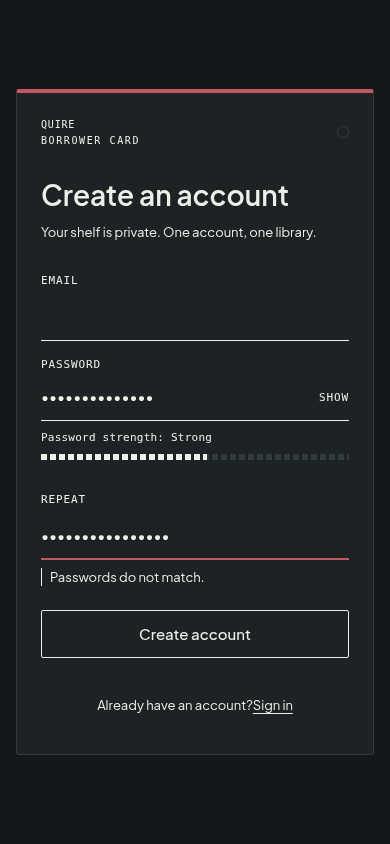
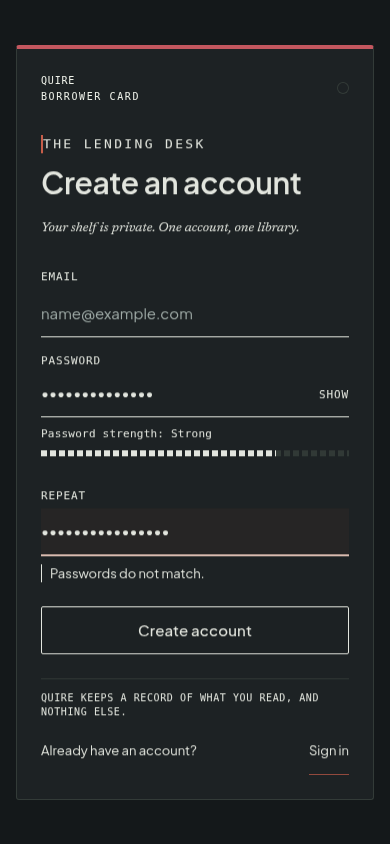
feat(auth): modern editorial pass on the card (#43)
* feat(auth): give the card a modern editorial voice

* fix(auth): keep the accent in the rule so every theme clears 7:1

diff --git a/src/styles/auth.css b/src/styles/auth.css
@@ -385,3 +385,148 @@
 .borrower-card .auth-forgot {
   margin-top: var(--space-4);
 }
+
+/* the card arrives, it does not pop */
+@keyframes card-rise {
+  from {
+    opacity: 0;
+    transform: translateY(6px);
+  }
+  to {
+    opacity: 1;
+    transform: translateY(0);
+  }
+}
+
+.borrower-card .auth-face {
+  animation: card-rise 180ms var(--ease);
+}
+
+.borrower-card .auth-kicker {
+  margin: 0 0 var(--space-6);
+  font: 10px / 12px var(--font-mono);
+  letter-spacing: 0.18em;
+  text-transform: uppercase;
+  color: var(--ink);
+  border-left: 2px solid var(--accent);
+  padding-left: var(--space-6);
+}
+
+.borrower-card .auth-head h1 {
+  font-size: 30px;
+  line-height: 34px;
+  letter-spacing: -0.01em;
+  margin: 0 0 var(--space-8);
+}
+
+.borrower-card .auth-lede {
+  margin: 0;
+  font-family: var(--font-serif);
+  font-size: 15px;
+  line-height: 22px;
+}
+
+/* the underline is the focus state, so it grows instead of appearing */
+.borrower-card .auth-form input {
+  border-bottom-width: var(--rule-width);
+  transition: border-color var(--motion) var(--ease);
+}
+
+.borrower-card .auth-form input:focus {
+  border-bottom-color: var(--accent);
+  outline: none;
+}
+
+.borrower-card .auth-issued {
+  width: 100%;
+  margin: var(--space-24) 0 0;
+  padding-top: var(--space-12);
+  border-top: var(--rule-width) solid var(--rule);
+  font: 10px / 14px var(--font-mono);
+  letter-spacing: 0.06em;
+  text-transform: uppercase;
+  color: var(--ink);
+  text-align: left;
+}
+
+@media (prefers-reduced-motion: reduce) {
+  .borrower-card .auth-face {
+    animation: none;
+  }
+}
+
+/* the footer is one column: the privacy line sits on the rule, the switch under it */
+.borrower-card .auth-footer {
+  display: flex;
+  flex-direction: column;
+  gap: var(--space-8);
+}
+
+.borrower-card .auth-issued {
+  border-top: var(--rule-width) solid var(--rule);
+  padding-top: var(--space-12);
+  margin: 0;
+}
+
+/* placeholders exist so the field reads as a field, not a printed blank */
+.borrower-card .auth-form input::placeholder {
+  color: var(--ink-muted);
+  opacity: 1;
+}
+
+.borrower-card .auth-form input:focus {
+  background: color-mix(in srgb, var(--accent) 6%, transparent);
+}
+
+/* the accent lives in the rule under the word, not in the word: 7:1 must hold in every theme */
+.borrower-card .auth-forgot,
+.borrower-card .auth-switch-action {
+  text-decoration: none;
+  color: var(--ink);
+  border-bottom: var(--rule-width) solid var(--accent);
+  padding-bottom: 1px;
+}
+
+.borrower-card .auth-forgot:hover,
+.borrower-card .auth-switch-action:hover,
+.borrower-card .auth-forgot:focus-visible,
+.borrower-card .auth-switch-action:focus-visible {
+  text-decoration: underline;
+  text-underline-offset: 3px;
+}
+
+.borrower-card .auth-switch {
+  justify-content: space-between;
+  gap: var(--space-8);
+  width: 100%;
+}
+
+.borrower-card .auth-switch-ask {
+  color: var(--ink);
+}
+
+/* the button keeps its weight but stops shouting */
+.borrower-card .auth-form .primary {
+  font-size: 15px;
+  letter-spacing: 0.01em;
+}
+
+/* micro spacing: the writer needs air above the rule, the link needs air above it */
+.borrower-card .auth-form input {
+  padding-bottom: var(--space-10);
+}
+
+.borrower-card .auth-forgot {
+  margin-top: var(--space-10);
+}
+
+/* a 44px touch target even though the word is small */
+.borrower-card .auth-field .auth-reveal {
+  display: inline-flex;
+  align-items: center;
+  justify-content: flex-end;
+  min-height: 44px;
+  min-width: 44px;
+  bottom: 0;
+  padding: 0;
+}

diff --git a/src/features/auth/AuthForm.tsx b/src/features/auth/AuthForm.tsx
@@ -129,10 +129,11 @@ export function AuthForm({ client }: { client: SupabaseClient }) {
         data-slide={switched ? "true" : undefined}
       >
         <header className="auth-head">
+          <p className="auth-kicker">The lending desk</p>
           <h1 id="auth-title" ref={heading} tabIndex={-1}>
             {mode === "signin" ? "Sign in" : "Create an account"}
           </h1>
-          <p>Your shelf is private. One account, one library.</p>
+          <p className="auth-lede">Your shelf is private. One account, one library.</p>
         </header>
         <form
           onSubmit={submit}
@@ -146,6 +147,7 @@ export function AuthForm({ client }: { client: SupabaseClient }) {
               type="email"
               name="email"
               autoComplete="email"
+              placeholder="name@example.com"
               required
               disabled={busy}
               value={email}
@@ -159,6 +161,7 @@ export function AuthForm({ client }: { client: SupabaseClient }) {
             <input
               type={reveal ? "text" : "password"}
               name="password"
+              placeholder={mode === "signup" ? "At least 8 characters" : "Your password"}
               autoComplete={mode === "signin" ? "current-password" : "new-password"}
               required
               minLength={8}
@@ -197,6 +200,7 @@ export function AuthForm({ client }: { client: SupabaseClient }) {
                   type="password"
                   name="repeat"
                   autoComplete="new-password"
+                  placeholder="Type it again"
                   disabled={busy}
                   value={repeat}
                   aria-invalid={mismatch}
@@ -236,6 +240,7 @@ export function AuthForm({ client }: { client: SupabaseClient }) {
           </button>
         </form>
         <footer className="auth-footer">
+          <p className="auth-issued">Quire keeps a record of what you read, and nothing else.</p>
           <button
             type="button"
             className="auth-switch"
